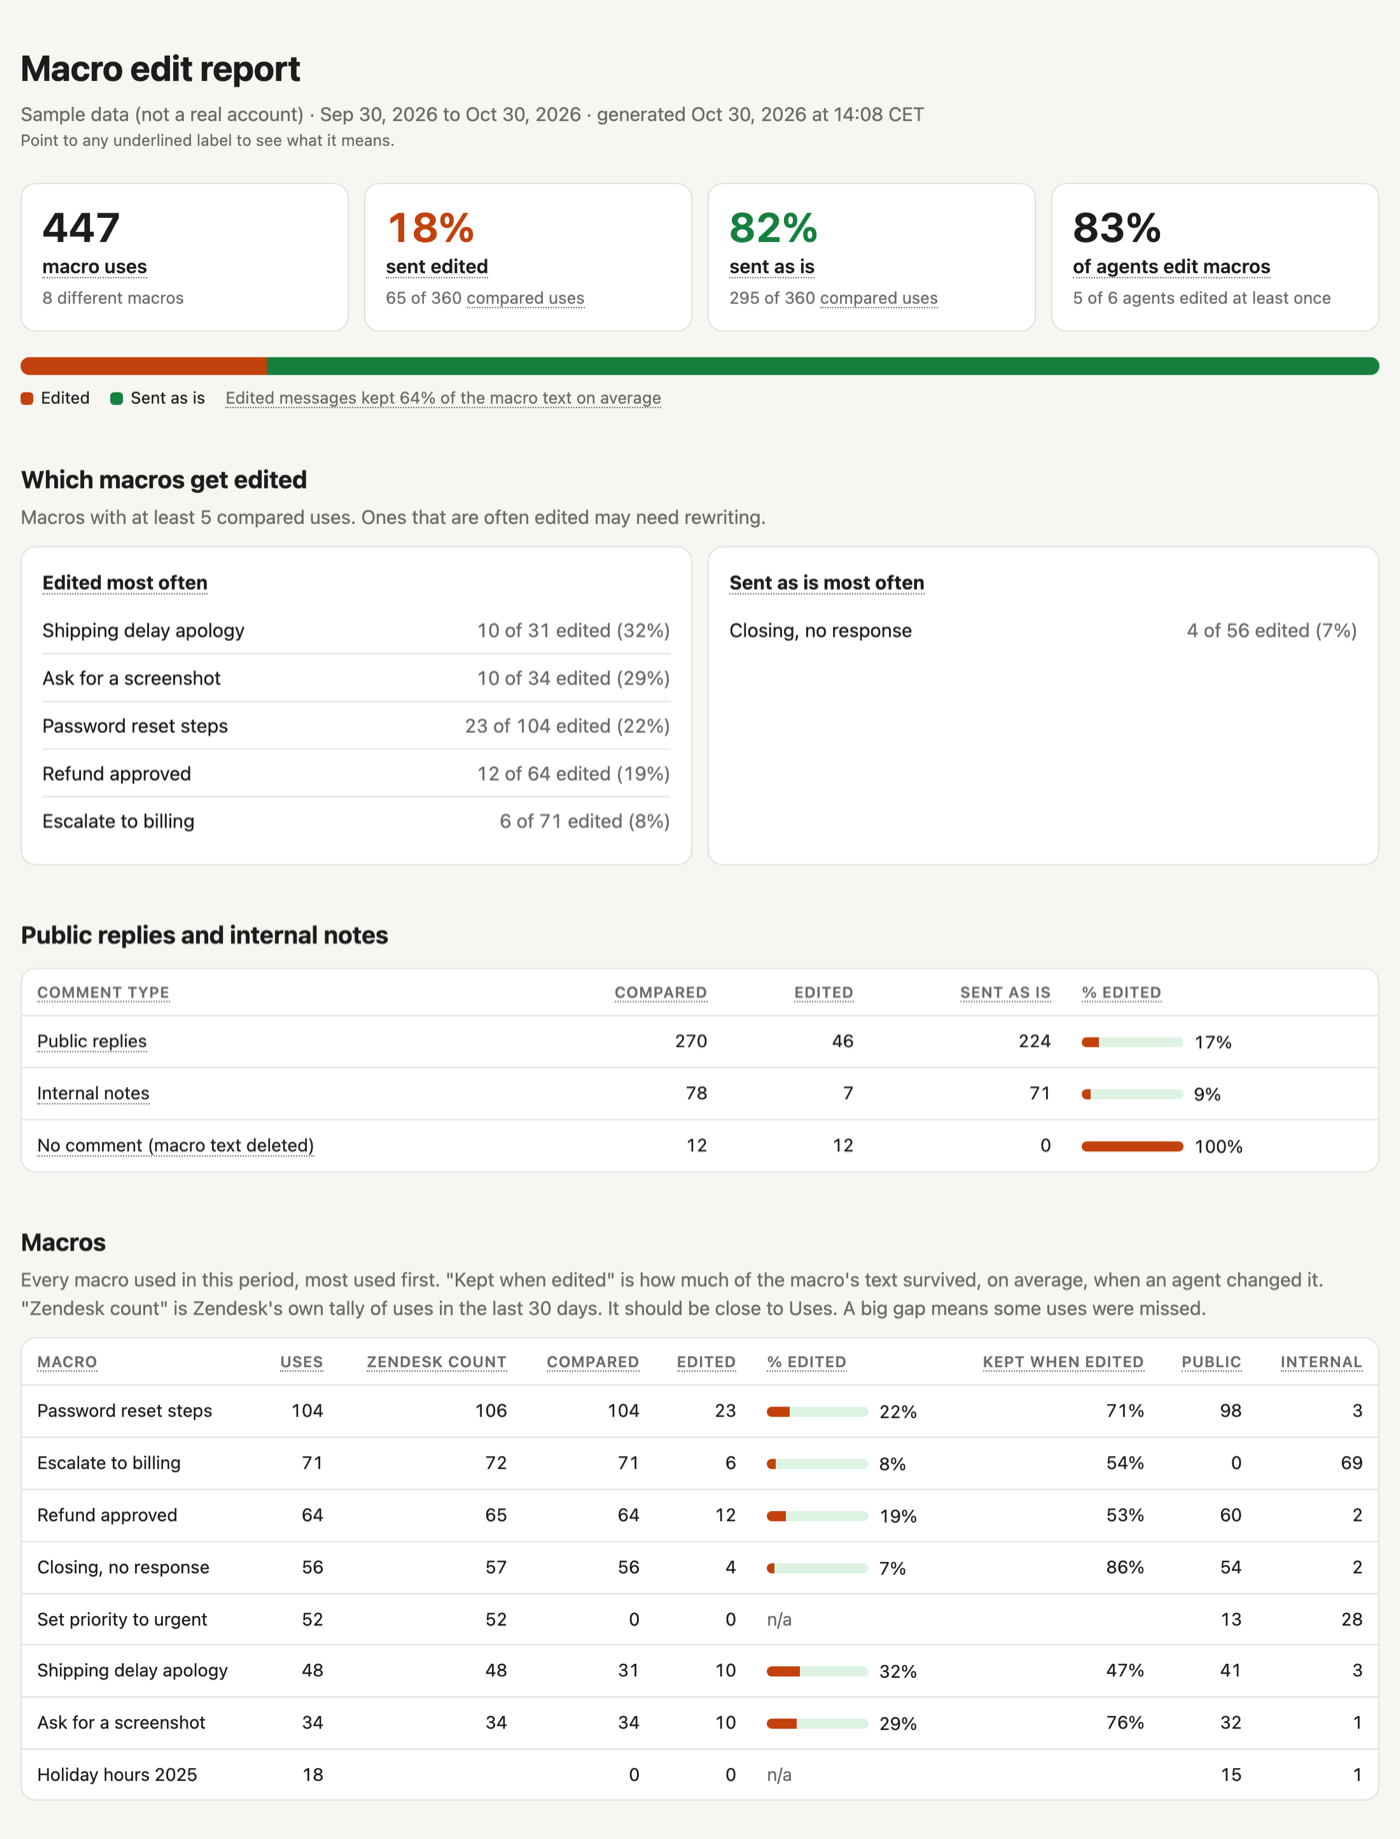
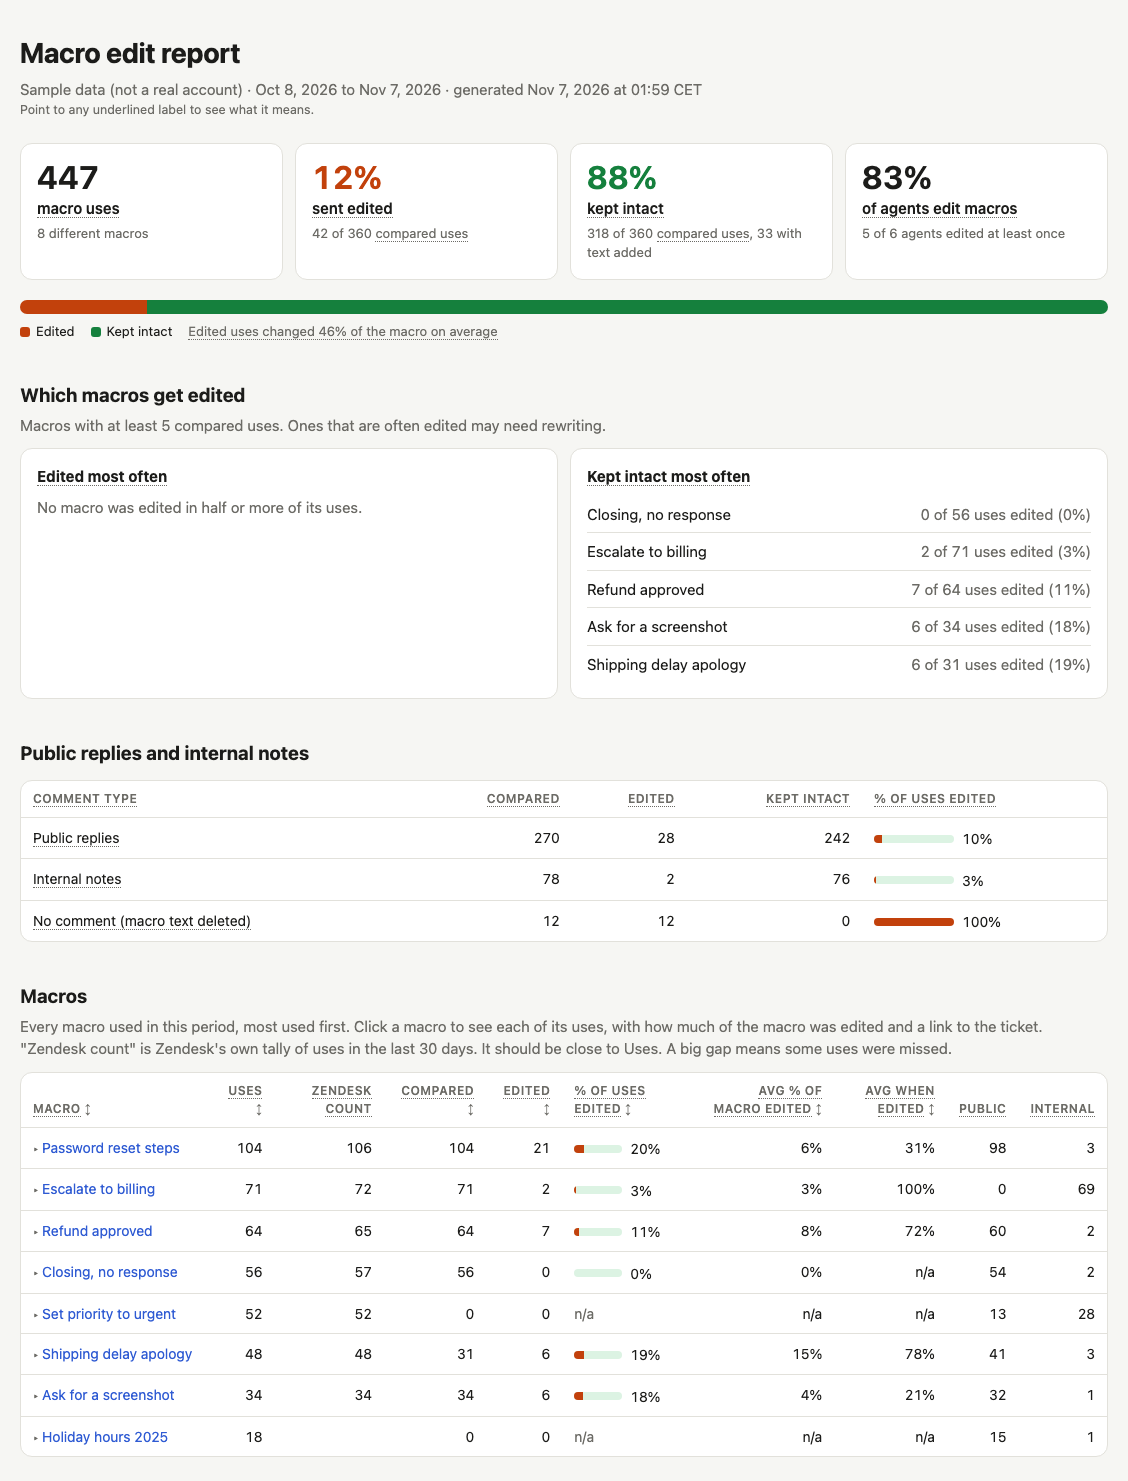
update the README screenshot for the rebuilt report
- retake docs/report.png from the sample data, showing kept intact, text
  added, percent of macro edited and the ranked lists split at half
- update its alt text to the new numbers and labels

diff --git a/README.md b/README.md
@@ -20,7 +20,7 @@ The report covers:
 
 Here's the top of a report made from the tool's sample data. Below this part, the full report goes on to list agents, every single use with its changes, and the uses that couldn't be compared. In the report, hover over any underlined label to see what it means.
 
-![The top of a macro edit report. It shows 447 macro uses, 18% sent edited, 82% sent as is, and 83% of agents editing, then lists which macros are edited most often, a breakdown by public reply and internal note, and a table of every macro.](docs/report.png)
+![The top of a macro edit report. It shows 447 macro uses, 12% sent edited, 88% kept intact, and 83% of agents editing, then lists which macros are edited most often and kept intact most often, a breakdown by public reply and internal note, and a table of every macro.](docs/report.png)
 
 It needs Python 3.9 or newer and nothing else. There's nothing to install.
 
